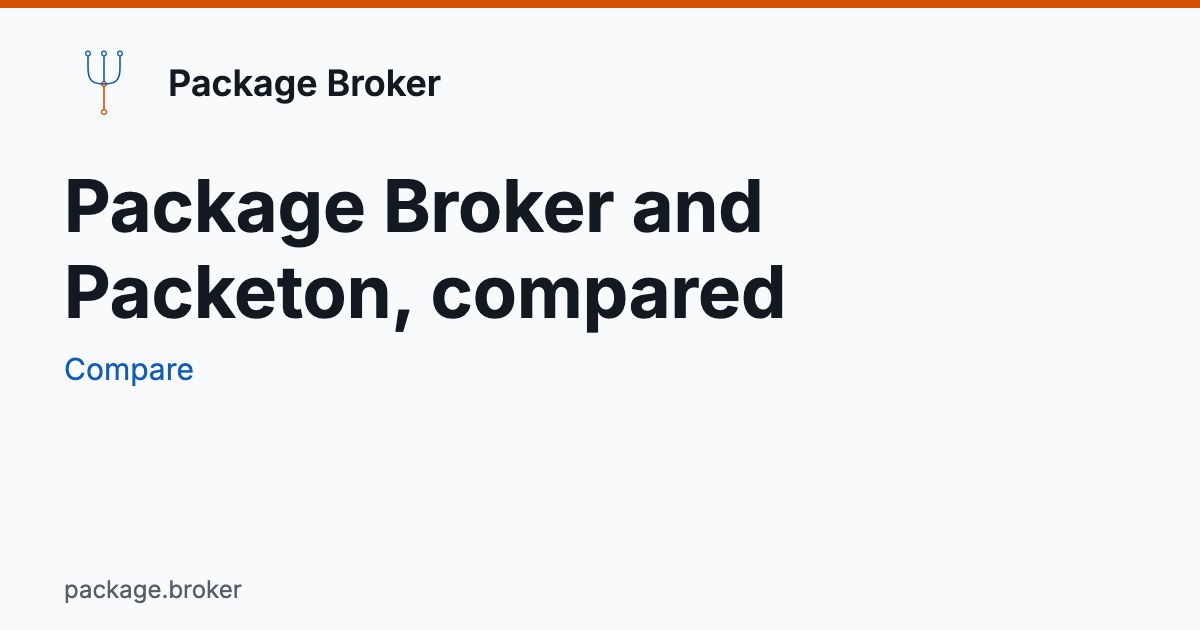
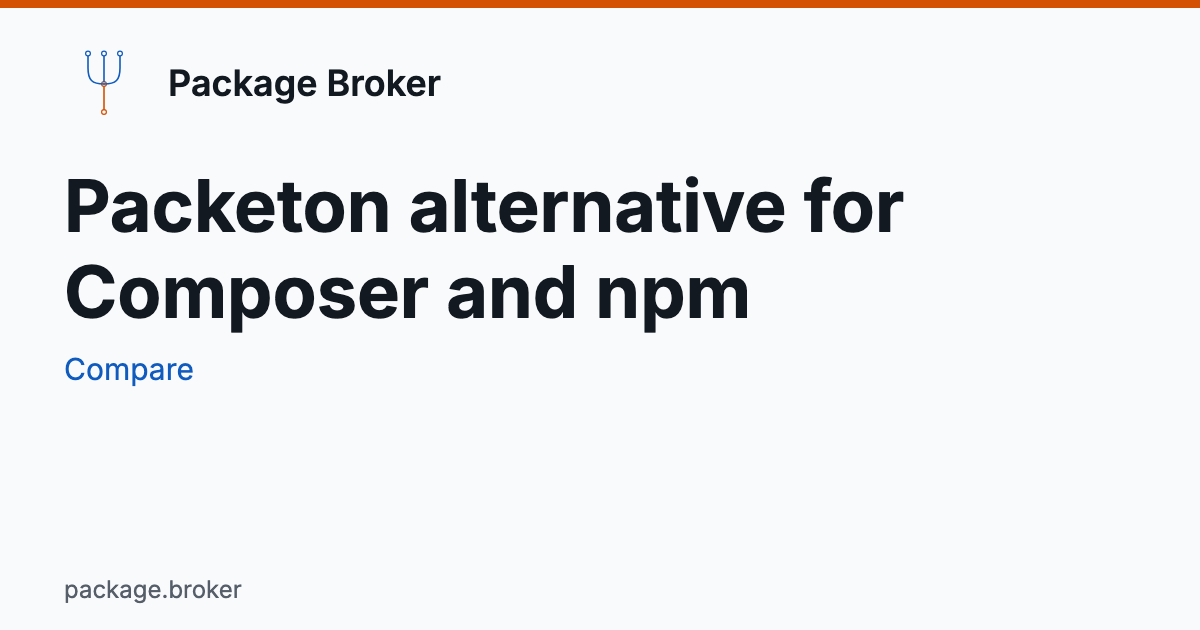
feat: comparison hub, pricing page and agencies FAQ
Adds /compare listing the three comparisons and migration guides, /pricing built from the agreed cost wording, an FAQ and follow and help routes on /agencies, comparison titles that name the alternative, and footer links to every comparison.

Changed region(s): [[0.0617, 0.4222, 0.6783, 0.5429], [0.185, 0.2714, 0.7708, 0.3921]]

diff --git a/src/pages/agencies.tsx b/src/pages/agencies.tsx
@@ -5,6 +5,7 @@ import IsolationDiagram from '../components/agencies/IsolationDiagram';
 import {sourceDecision, identityDecision, tokenDecision} from '../data/agencies';
 import {workersQuickstart, repository, releaseStatus} from '../data/landing';
 import contacts from '../data/contacts.json';
+import {releasesFeed} from '../data/entity';
 import styles from './agencies.module.css';
 
 export default function Agencies() {
@@ -38,7 +39,7 @@ export default function Agencies() {
     <PageSection id="mechanisms" title="Three clients, separate sources and install access">
       <p>This fictional example uses one organization with three client projects. Each group has access only to its own project; no organization-wide grants or shared purchased package sources apply.</p>
       <ol className="pb-steps">
-        <li><h3>Store the client’s keys</h3><p>Create a project-owned source for the client’s vendor repository. Its credentials are encrypted at rest; organization admins and anyone with both the database and master key can decrypt them.</p></li>
+        <li><h3>Store the client’s keys</h3><p>Create a project-owned source for the client’s vendor repository. Its credentials are encrypted at rest; organization admins and anyone with both the database and master key can decrypt them. <Link className="pb-link" to="/docs/guides/mirror-vendor-repositories">Set up vendor repositories and credentials</Link>.</p></li>
         <li><h3>Grant the project</h3><p>Map a group from an OIDC identity provider such as Dex, or grant an individual e-mail address. Identity and group membership stay in your identity provider.</p></li>
         <li><h3>Install with broker tokens</h3><p>A developer’s personal token covers their allowed projects. CI uses a read-only service token bound to one project. The same token works for Composer and npm.</p></li>
       </ol>
@@ -54,15 +55,27 @@ export default function Agencies() {
       <p>Composer uses one credential for the broker host; npm needs a configuration line per project. <Link className="pb-link" to={tokenDecision}>Personal and service token policy</Link>.</p>
     </PageSection>
     <PageSection id="cost" title="Add people without counting seats">
-      <p>The software does not count or cap users. No licence fee or per-user, per-project or per-client charge: you pay for hosting and operations, from USD 5 a month on Workers Paid plus usage, or your own Node host. You operate backups, upgrades and your identity provider.</p>
+      <p>The software does not count or cap users. No licence fee or per-user, per-project or per-client charge: you pay for hosting and operations, from USD 5 a month on Workers Paid plus usage, or your own Node host. You operate backups, upgrades and your identity provider. <Link className="pb-link" to="/pricing">Hosting costs and operating responsibilities</Link>.</p>
       <p>If you would rather pay for a hosted Composer service, consider Private Packagist Cloud. Its price model counts users and suborganizations. <Link className="pb-link" to="/compare/private-packagist">Compare with Private Packagist</Link>.</p>
       <p>Package Broker is AGPL-3.0-only. Review the <Link className="pb-link" to="/docs/decisions/licensing-and-contribution-terms">licensing and contribution terms</Link> before choosing it for your agency.</p>
     </PageSection>
     <PageSection id="start" title="Try one client project before switching the agency">
       <div className="pb-cta-band">
         <p>Evaluate alone with a local administrator and a token; no identity provider is needed for that first trial. Connect your identity provider for the team, then check one project’s source selection and install access before moving more clients.</p>
-        <p>Migration guides cover <Link className="pb-link" to="/docs/migration/from-private-packagist">Private Packagist</Link>, <Link className="pb-link" to="/docs/migration/from-satis">Satis</Link> and <Link className="pb-link" to="/docs/migration/from-packeton">Packeton</Link>. Ask about your current setup before switching.</p>
-        <div className="pb-actions"><Link className="pb-btn pb-btn--primary" to={workersQuickstart}>Start the quickstart</Link><a className="pb-btn" href={`mailto:${contacts.support}`}>Ask about your setup</a><a className="pb-link" href={`${repository}/releases`}>Watch releases on GitHub</a></div>
+        <p>Migration guides cover <Link className="pb-link" to="/docs/migration/from-private-packagist">Private Packagist</Link>, <Link className="pb-link" to="/docs/migration/from-satis">Satis</Link> and <Link className="pb-link" to="/docs/migration/from-packeton">Packeton</Link>. Compare with <Link className="pb-link" to="/compare/satis">Satis</Link> or <Link className="pb-link" to="/compare/packeton">Packeton</Link> before switching.</p>
+        <div className="pb-actions"><Link className="pb-btn pb-btn--primary" to={workersQuickstart}>Start the quickstart</Link><a className="pb-btn" href={`mailto:${contacts.support}`}>Ask about your setup</a></div>
+        <p>Get notified of releases: open <a className="pb-link" href={repository}>the GitHub repository</a> and choose Watch → Custom → Releases, or subscribe to the <a className="pb-link" href={releasesFeed}>release Atom feed</a>.</p>
+        <p>Getting help: report bugs in <a className="pb-link" href={`${repository}/issues`}>GitHub issues</a>, ask questions in <a className="pb-link" href={`${repository}/discussions`}>GitHub Discussions</a>, or e-mail <a className="pb-link" href={`mailto:${contacts.support}`}>{contacts.support}</a> for private setup questions. Use the <Link className="pb-link" to="/security#disclosure">private vulnerability reporting routes</Link> for security problems.</p>
+      </div>
+    </PageSection>
+    <PageSection id="faq" title="Questions before moving a client">
+      <div className={styles.faq}>
+        <details><summary>What happens if a vendor repository is down?</summary><p>Archives already installed through the broker are served from its storage. Versions never downloaded through the broker still need the vendor repository. Optional retention rules can remove unused public proxy archives.</p></details>
+        <details><summary>Who can decrypt a client’s keys?</summary><p>Organization admins and anyone with both the database and deployment master key can decrypt source credentials. Developers and CI install with broker tokens. You own master key storage, access, backup and rotation. <Link className="pb-link" to={tokenDecision}>Secrets and token policy</Link>.</p></details>
+        <details><summary>Can the data stay in the EU?</summary><p>For Workers deployments that need EU storage, choose the <code>eu</code> jurisdiction when creating D1 and R2 resources. Provisioning checks the requested jurisdiction against existing resources. On Node, you choose the host and persistent storage. Storage placement does not determine where requests to package sources or external services are processed. <Link className="pb-link" to="/security#residency">Data location and outbound requests</Link>.</p></details>
+        <details><summary>What do you operate yourself?</summary><p>You run backups, restore checks, upgrades, master key recovery and your identity provider. You also manage storage placement, token policies and network exposure; on Node you operate the host and volumes. <Link className="pb-link" to="/security#operator">Operator responsibilities</Link> · <Link className="pb-link" to="/pricing">Hosting and operations costs</Link>.</p></details>
+        <details><summary>How do you move one client first?</summary><p>Evaluate one client project before moving more clients. Create its project-owned sources, connect your identity provider for the team, and check source selection and install access. Follow the migration guide for <Link className="pb-link" to="/docs/migration/from-private-packagist">Private Packagist</Link>, <Link className="pb-link" to="/docs/migration/from-satis">Satis</Link> or <Link className="pb-link" to="/docs/migration/from-packeton">Packeton</Link>.</p></details>
+        <details><summary>What happens if the project stops?</summary><p>Your self-hosted deployment keeps running. The code is AGPL-3.0-only, and your data stays in your own D1 and R2, or SQLite and your blob store. You remain responsible for backups and updates. <Link className="pb-link" to="/docs/decisions/licensing-and-contribution-terms">Licensing and contribution terms</Link> · <Link className="pb-link" to="/docs/decisions/deployment-and-runtimes">Deployment and recovery decisions</Link>.</p></details>
       </div>
     </PageSection>
     </div>

diff --git a/src/pages/pricing.tsx b/src/pages/pricing.tsx
@@ -1,0 +1,22 @@
+import Link from '@docusaurus/Link';
+import MarketingLayout, {PageSection} from '../components/marketing/MarketingLayout';
+import {runtimes} from '../data/entity';
+
+export default function Pricing() {
+  return <MarketingLayout title="What it costs" description="Plan Package Broker hosting and operations: no licence fee or per-user, per-project or per-client charge. Review Workers costs and your responsibilities.">
+    <div className="pb-hero pb-hero--page"><p className="pb-eyebrow">Pricing</p><h1>What it costs</h1><p className="pb-hero__sub">No licence fee and no per-user, per-project or per-client charge. You pay for hosting and operations.</p></div>
+    <PageSection id="software" title="No seat counting">
+      <p>The software does not count or cap users. Package Broker is AGPL-3.0-only. Review the <Link className="pb-link" to="/docs/decisions/licensing-and-contribution-terms">licensing and contribution terms</Link>.</p>
+    </PageSection>
+    <PageSection id="hosting" title="Hosting and usage">
+      <p>Run Package Broker on {runtimes}.</p>
+      <p>From USD 5 a month on Workers Paid plus usage beyond the included requests and CPU time. D1, R2 and Queues are billed by usage. Check <a className="pb-link" href="https://developers.cloudflare.com/workers/platform/pricing/">Cloudflare Workers pricing</a> for current terms.</p>
+      <p>On your own Node host, you pay for your host, storage and operations. Build the container image from the repository; container image publishing is planned.</p>
+    </PageSection>
+    <PageSection id="operations" title="What you run">
+      <p>Workers deployments use Workers, D1, R2, Queues and Cron Triggers. Node deployments use the Node bundle, SQLite and a filesystem blob store, or an S3-compatible bucket.</p>
+      <p>You own backups, master key recovery, upgrades and the identity provider. On Node, you also operate the host. Organization admins and the master key holder can use every client’s keys; rotate them when an admin leaves.</p>
+      <p><Link className="pb-link" to="/security#operator">Security model and operator responsibilities</Link> · <Link className="pb-link" to="/agencies#cost">Costs for your agency</Link></p>
+    </PageSection>
+  </MarketingLayout>;
+}

diff --git a/src/pages/compare/index.tsx b/src/pages/compare/index.tsx
@@ -1,0 +1,18 @@
+import Link from '@docusaurus/Link';
+import MarketingLayout, {PageSection} from '../../components/marketing/MarketingLayout';
+import {competitors, SourceDate} from '../../components/compare/ComparisonTable';
+
+export default function Compare() {
+  return <MarketingLayout title="Private Composer registry alternatives" description="Compare Package Broker with Private Packagist, Satis and Packeton using sourced comparisons, checked dates and migration guides for each registry.">
+    <div className="pb-hero pb-hero--page"><p className="pb-eyebrow">Compare</p><h1>Private Composer registry alternatives</h1><p className="pb-hero__sub">Compare access boundaries, package formats and what you operate. Each comparison records its sources and checked dates.</p></div>
+    <PageSection id="comparisons" title="Choose a comparison">
+      <ul>{competitors.map(product => <li key={product.id}>
+        <h3><Link className="pb-link" to={`/compare/${product.id}`}>Package Broker and {product.name}, compared</Link></h3>
+        <SourceDate {...product.fit!} label={`${product.name} source`}/>
+      </li>)}</ul>
+    </PageSection>
+    <PageSection id="migration" title="Plan your migration">
+      <ul>{competitors.filter(product => product.migration?.published).map(product => <li key={product.id}><Link className="pb-link" to={product.migration!.href}>Migrate from {product.name}</Link></li>)}</ul>
+    </PageSection>
+  </MarketingLayout>;
+}

diff --git a/src/data/landing.ts b/src/data/landing.ts
@@ -19,13 +19,17 @@ export const headerLinks = [
   {label: 'Deploy', to: '/#quickstart'},
   {label: 'Security', to: '/security'},
   ...(agenciesPublished ? [{label: 'Agencies', to: '/agencies'}] : []),
-  ...(comparisonsPublished ? [{label: 'Compare', to: '/compare/private-packagist'}] : []),
+  ...(comparisonsPublished ? [{label: 'Compare', to: '/compare'}] : []),
   {label: 'GitHub', href: repository},
 ];
 export const footerLinks = [
   ...headerLinks.slice(0, 3),
   ...(agenciesPublished ? [{label: 'Agencies', to: '/agencies'}] : []),
-  ...(comparisonsPublished ? [{label: 'Compare', to: '/compare/private-packagist'}] : []),
+  ...(comparisonsPublished ? [{label: 'Compare', to: '/compare'}] : []),
+  {label: 'Private Packagist comparison', to: '/compare/private-packagist'},
+  {label: 'Satis comparison', to: '/compare/satis'},
+  {label: 'Packeton comparison', to: '/compare/packeton'},
+  {label: 'Pricing', to: '/pricing'},
   {label: 'Governance', href: `${repository}/blob/main/GOVERNANCE.md`},
   {label: 'Contributing', href: `${repository}/blob/main/CONTRIBUTING.md`},
   {label: 'Code of conduct', href: `${repository}/blob/main/CODE_OF_CONDUCT.md`},

diff --git a/src/data/entity.ts b/src/data/entity.ts
@@ -1,5 +1,5 @@
 // One wording for the product across the page copy, meta, JSON-LD, llms.txt, the README and the GitHub org profile.
-export const definition = 'Package Broker is a self-hosted, open-source (AGPL-3.0-only) private Composer and npm registry for Magento and PHP agencies.';
+export const definition = 'Package Broker is a self-hosted, open-source (AGPL-3.0-only) private Composer and npm registry with role-based access control per project.';
 export const runtimes = 'Cloudflare Workers or your own Node host with Docker';
 export const runtimeSentence = `It runs on ${runtimes}.`;
 export const licence = {name: 'AGPL-3.0-only', url: 'https://spdx.org/licenses/AGPL-3.0-only.html'};

diff --git a/src/pages/agencies.module.css b/src/pages/agencies.module.css
@@ -69,3 +69,17 @@
     grid-template-columns: repeat(3, minmax(0, 1fr));
   }
 }
+
+.faq details {
+  padding-block: var(--pb-space-4);
+  border-bottom: var(--pb-space-px) solid var(--pb-color-border);
+}
+
+.faq summary {
+  cursor: pointer;
+  font-weight: var(--pb-font-weight-semibold);
+}
+
+.faq details p {
+  margin-block: var(--pb-space-4) 0;
+}
